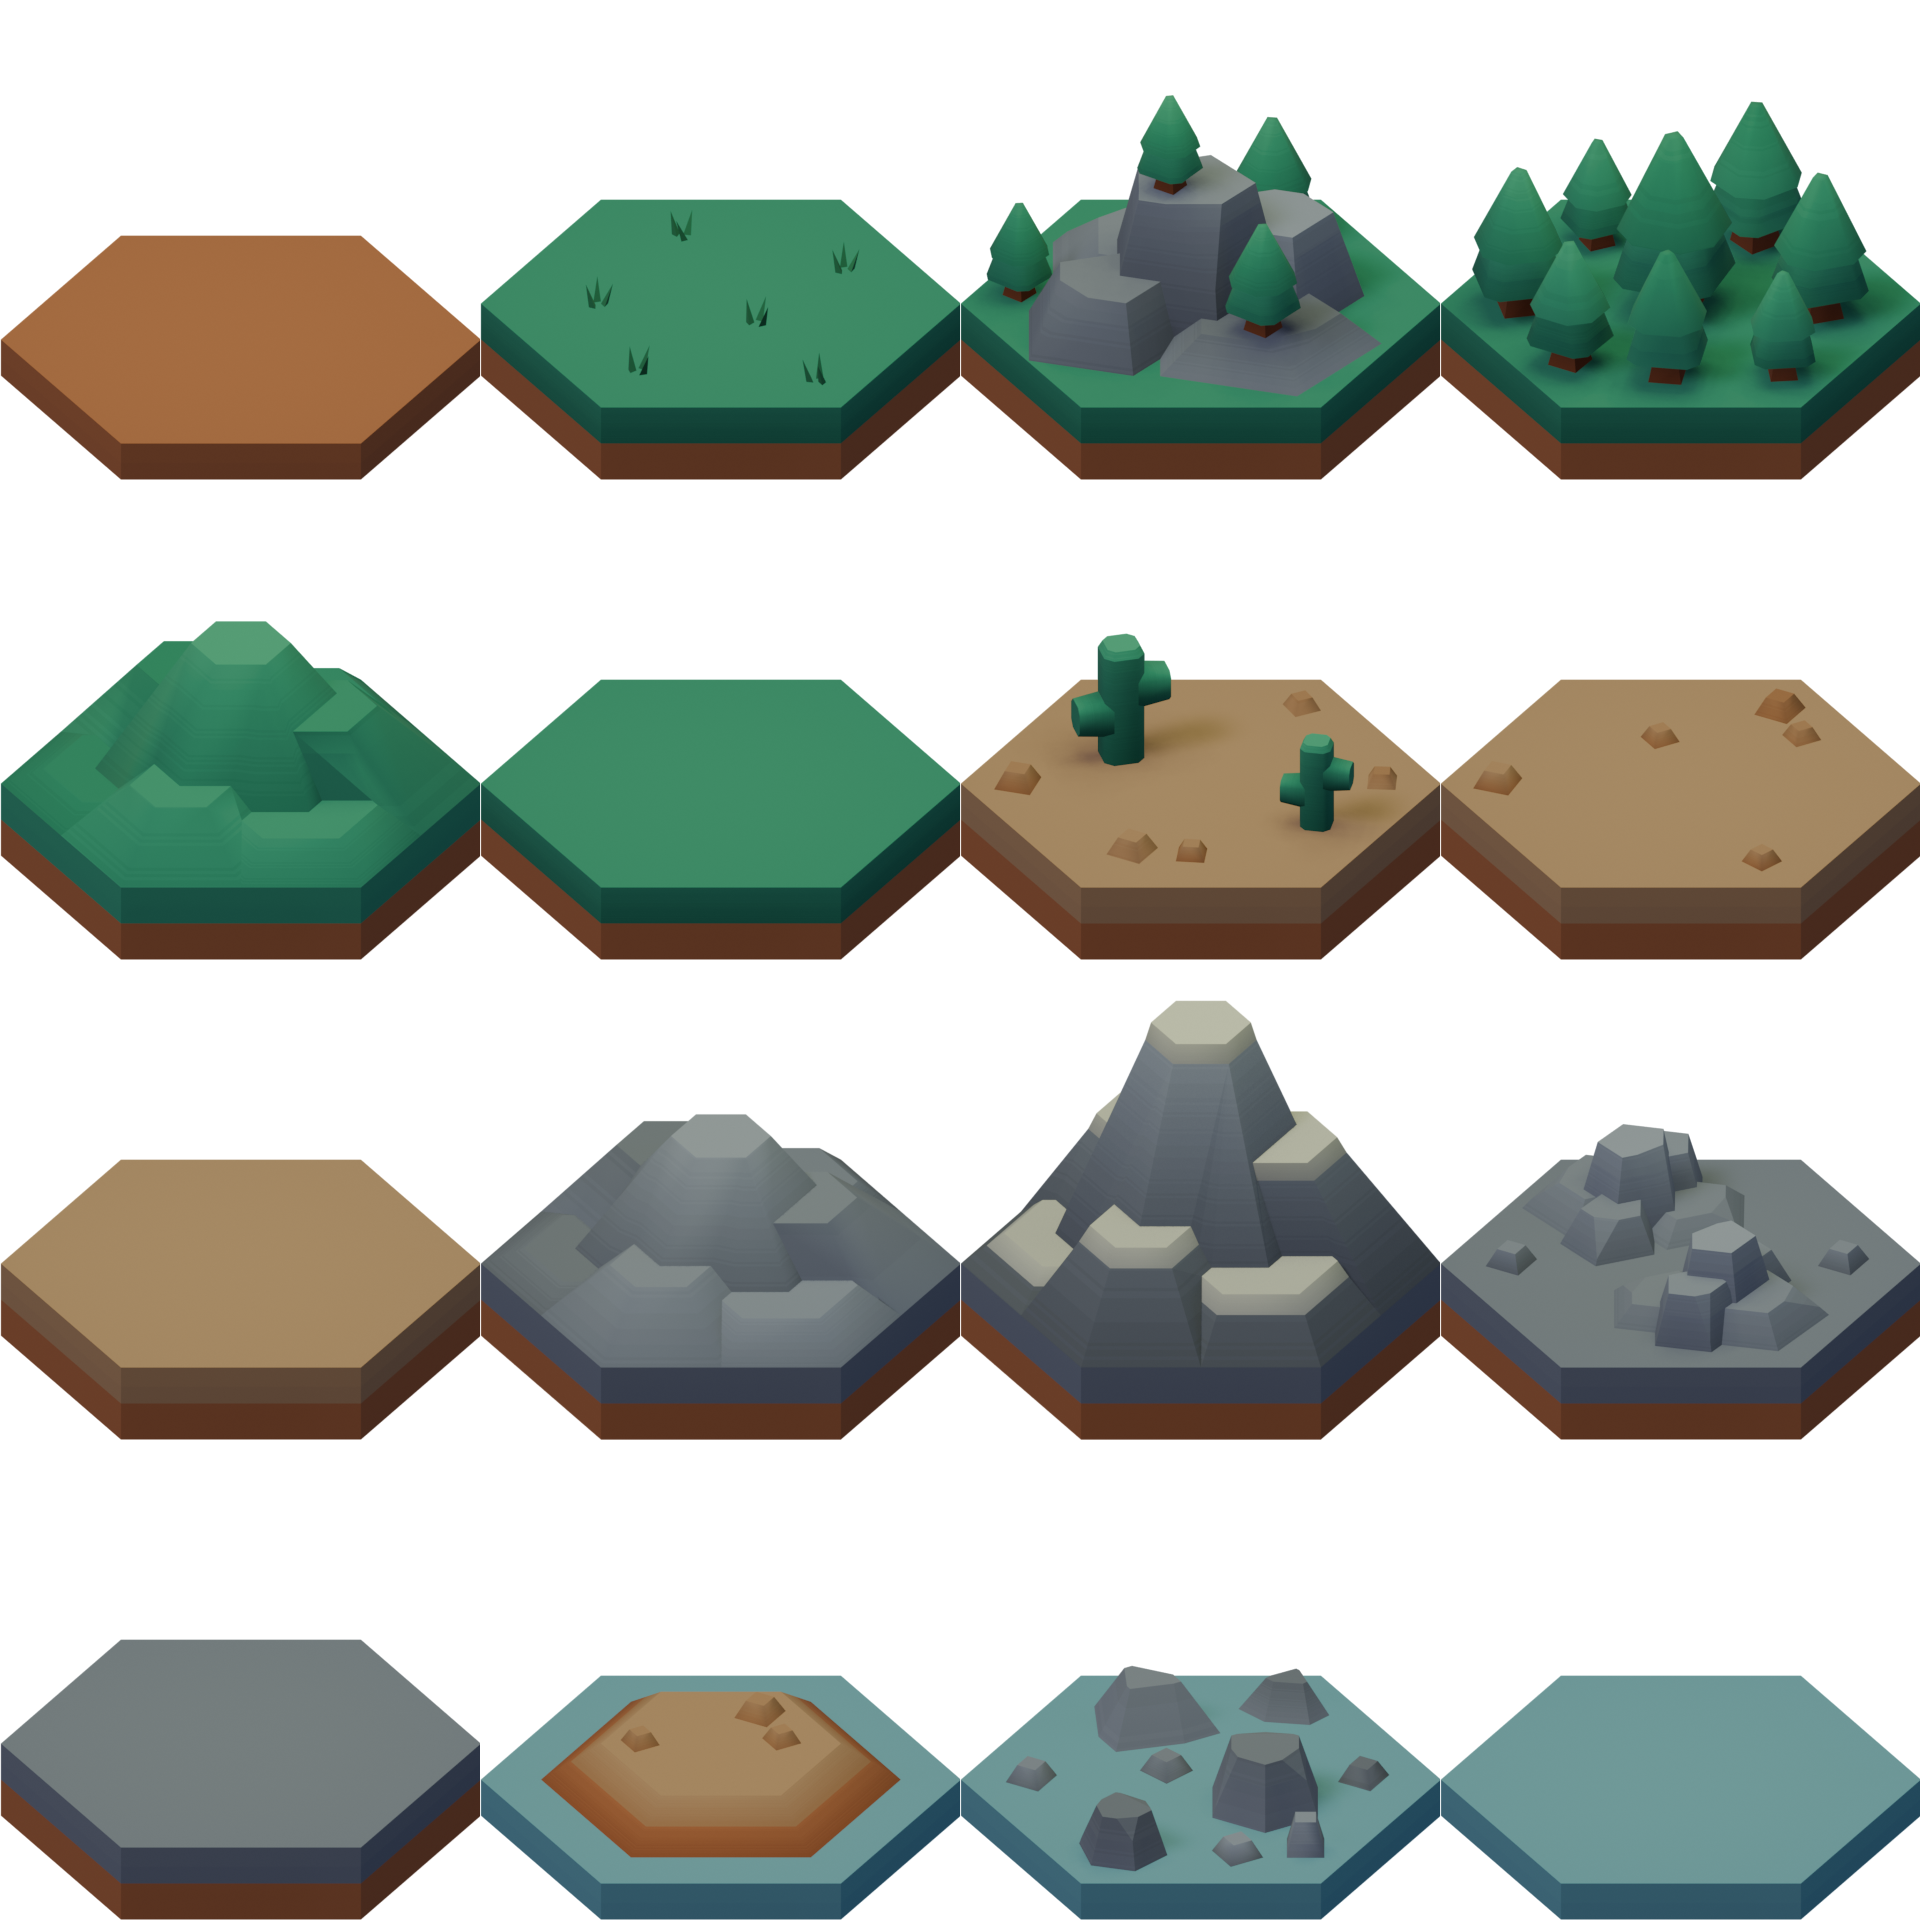
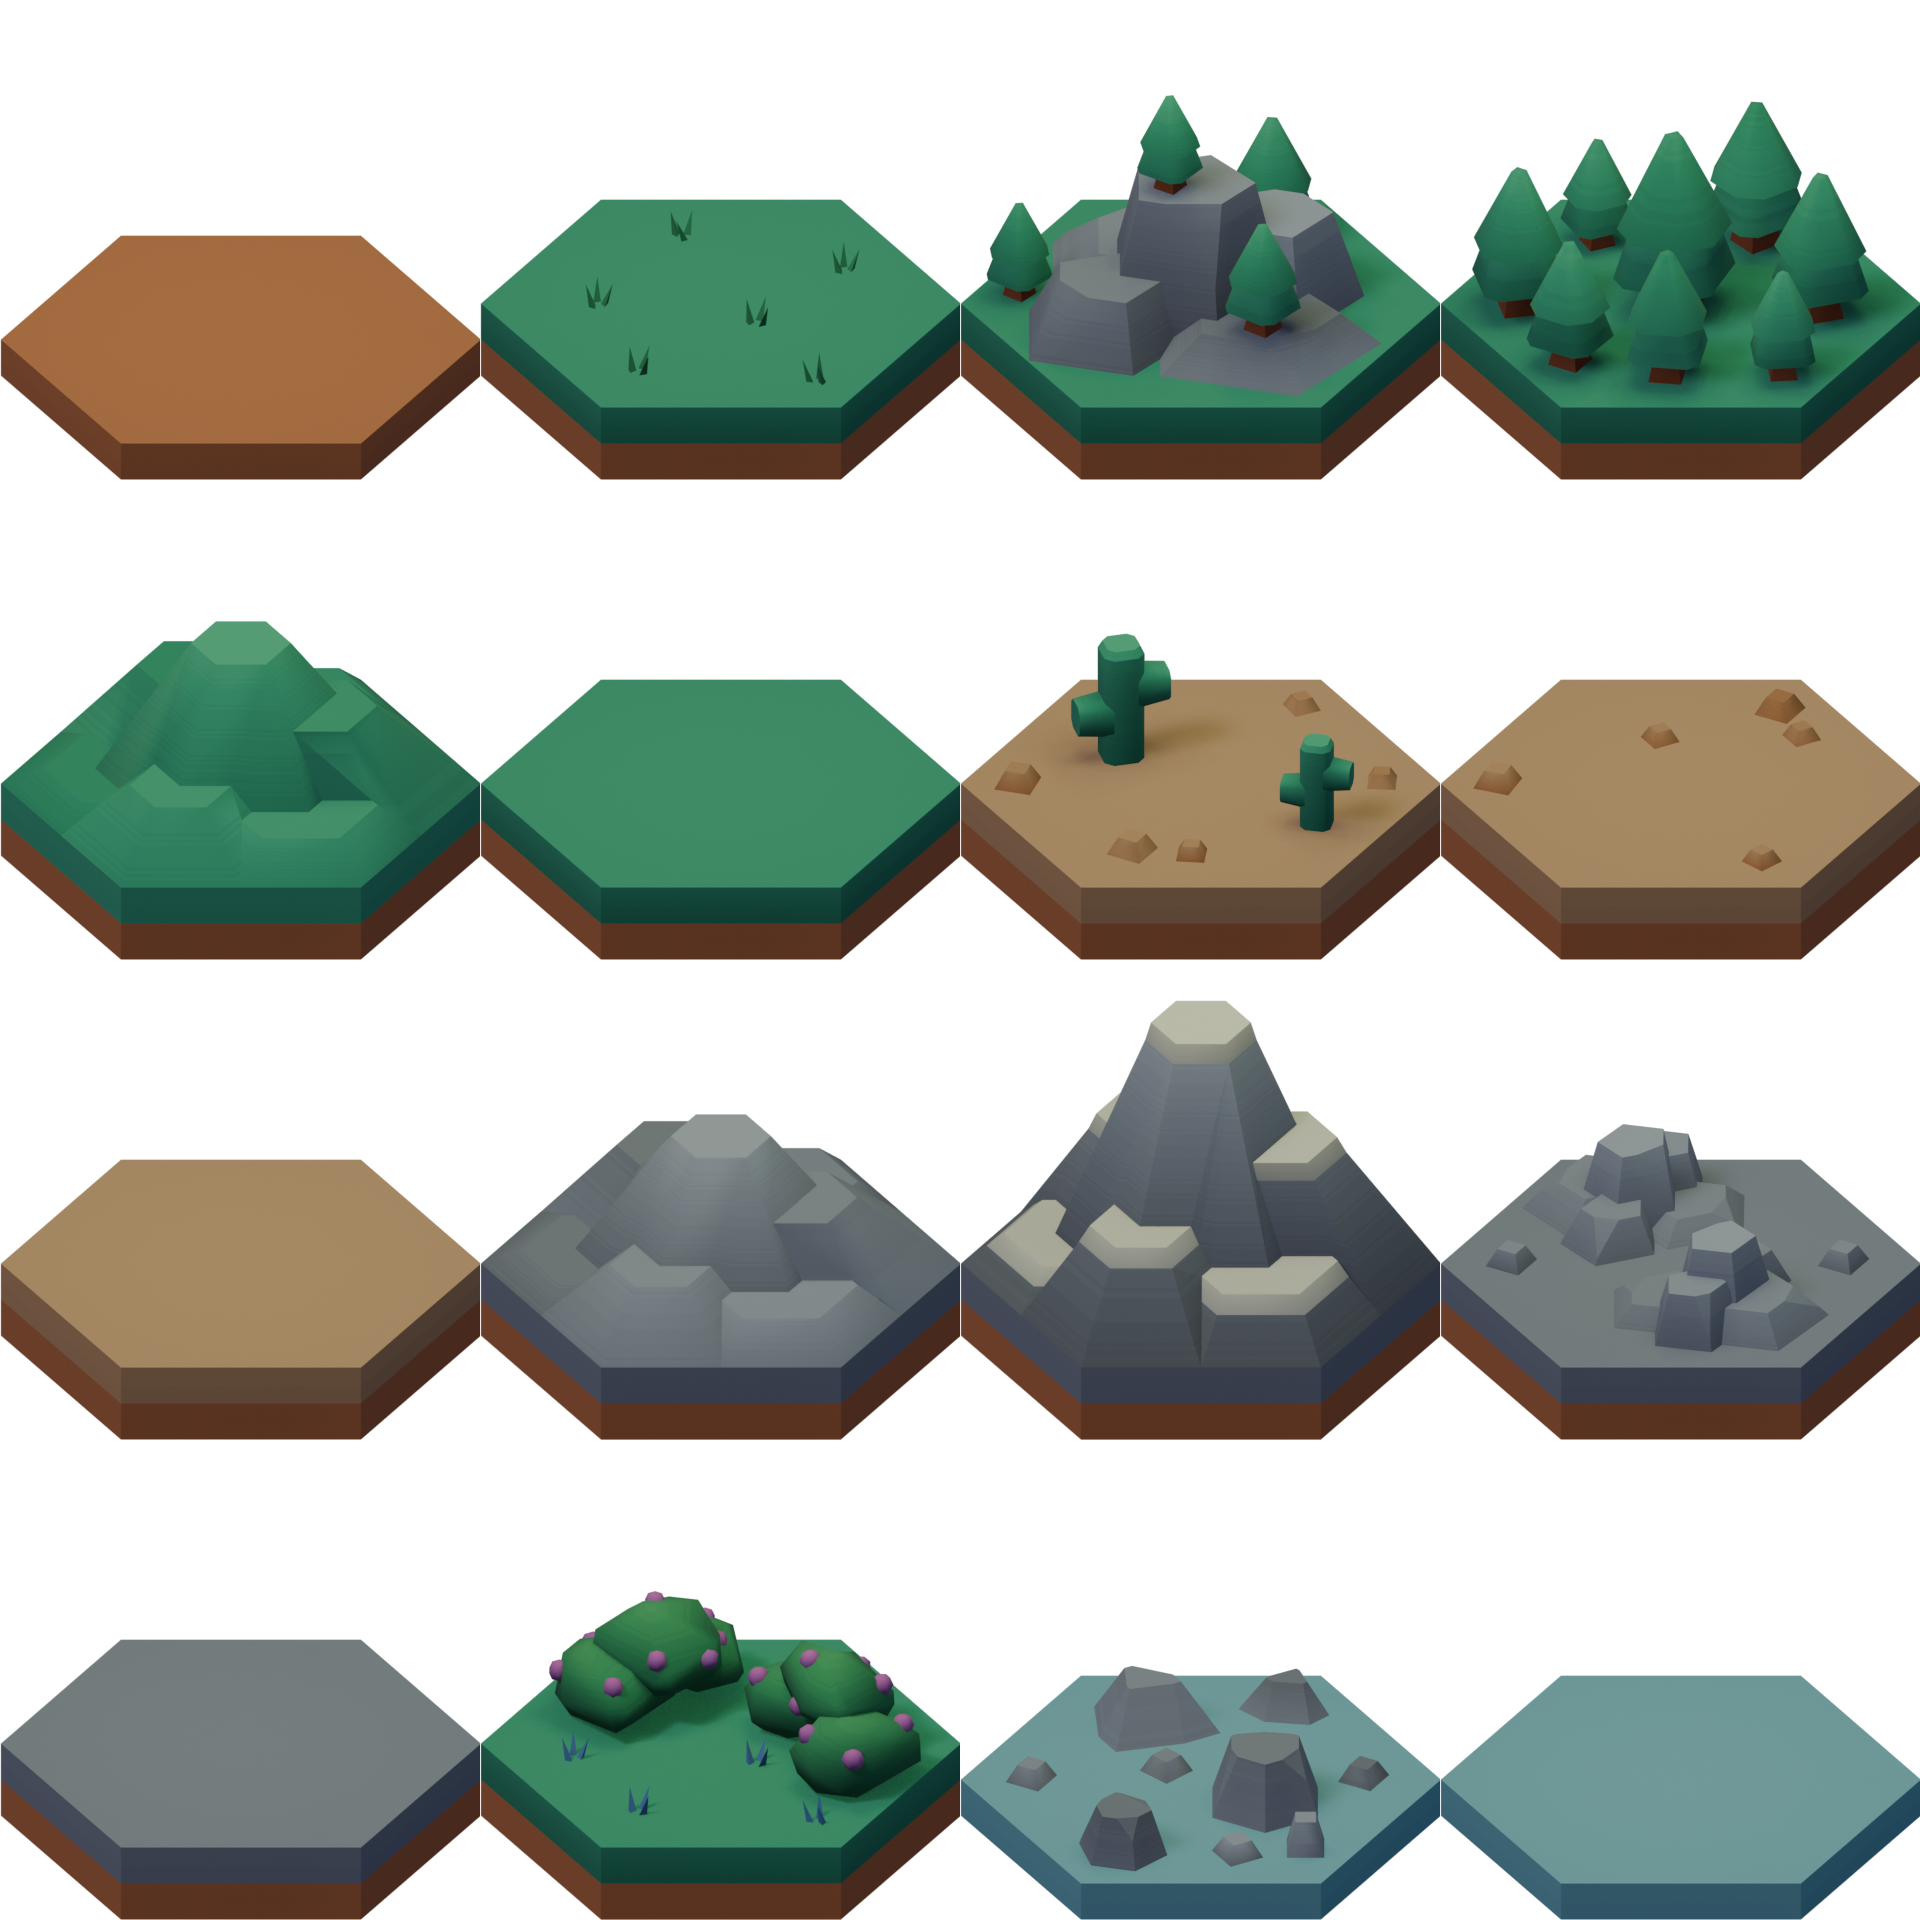
adding bushes (wip)

Changed region(s): [[0.25, 0.8125, 0.5, 1.0]]

diff --git a/scripts/map/MapGenerator.cs b/scripts/map/MapGenerator.cs
@@ -26,6 +26,8 @@ public partial class MapGenerator : Node
     [Export(PropertyHint.Range, "0.0,1.0,")]
     private float vegetationGrassLowerThreshold = 0.3f;
     [Export(PropertyHint.Range, "0.0,1.0,")]
+    private float vegetationBushesLowerThreshold = 0.7f;
+    [Export(PropertyHint.Range, "0.0,1.0,")]
     private float vegetationTreesLowerThreshold = 0.8f;
     
     [ExportSubgroup("Height")]
@@ -46,6 +48,8 @@ public partial class MapGenerator : Node
     [ExportSubgroup("Vegetation")]
     [Export]
     private Vector2I grassCoords;
+    [Export]
+    private Vector2I bushesCoords;
     [Export]
     private Vector2I forestCoords;
     
@@ -270,6 +274,8 @@ public partial class MapGenerator : Node
             baseMapLayer.SetCell(cell, 0, rockiness < rockyUpperThreshold ? stoneCoords : dirtCoords);
         else if (vegetation > vegetationTreesLowerThreshold)
             baseMapLayer.SetCell(cell, 0, forestCoords);
+        else if (vegetation > vegetationBushesLowerThreshold)
+            baseMapLayer.SetCell(cell, 0, bushesCoords);
         else
         {
             bt.SetCell(cell, grassTerrain);
